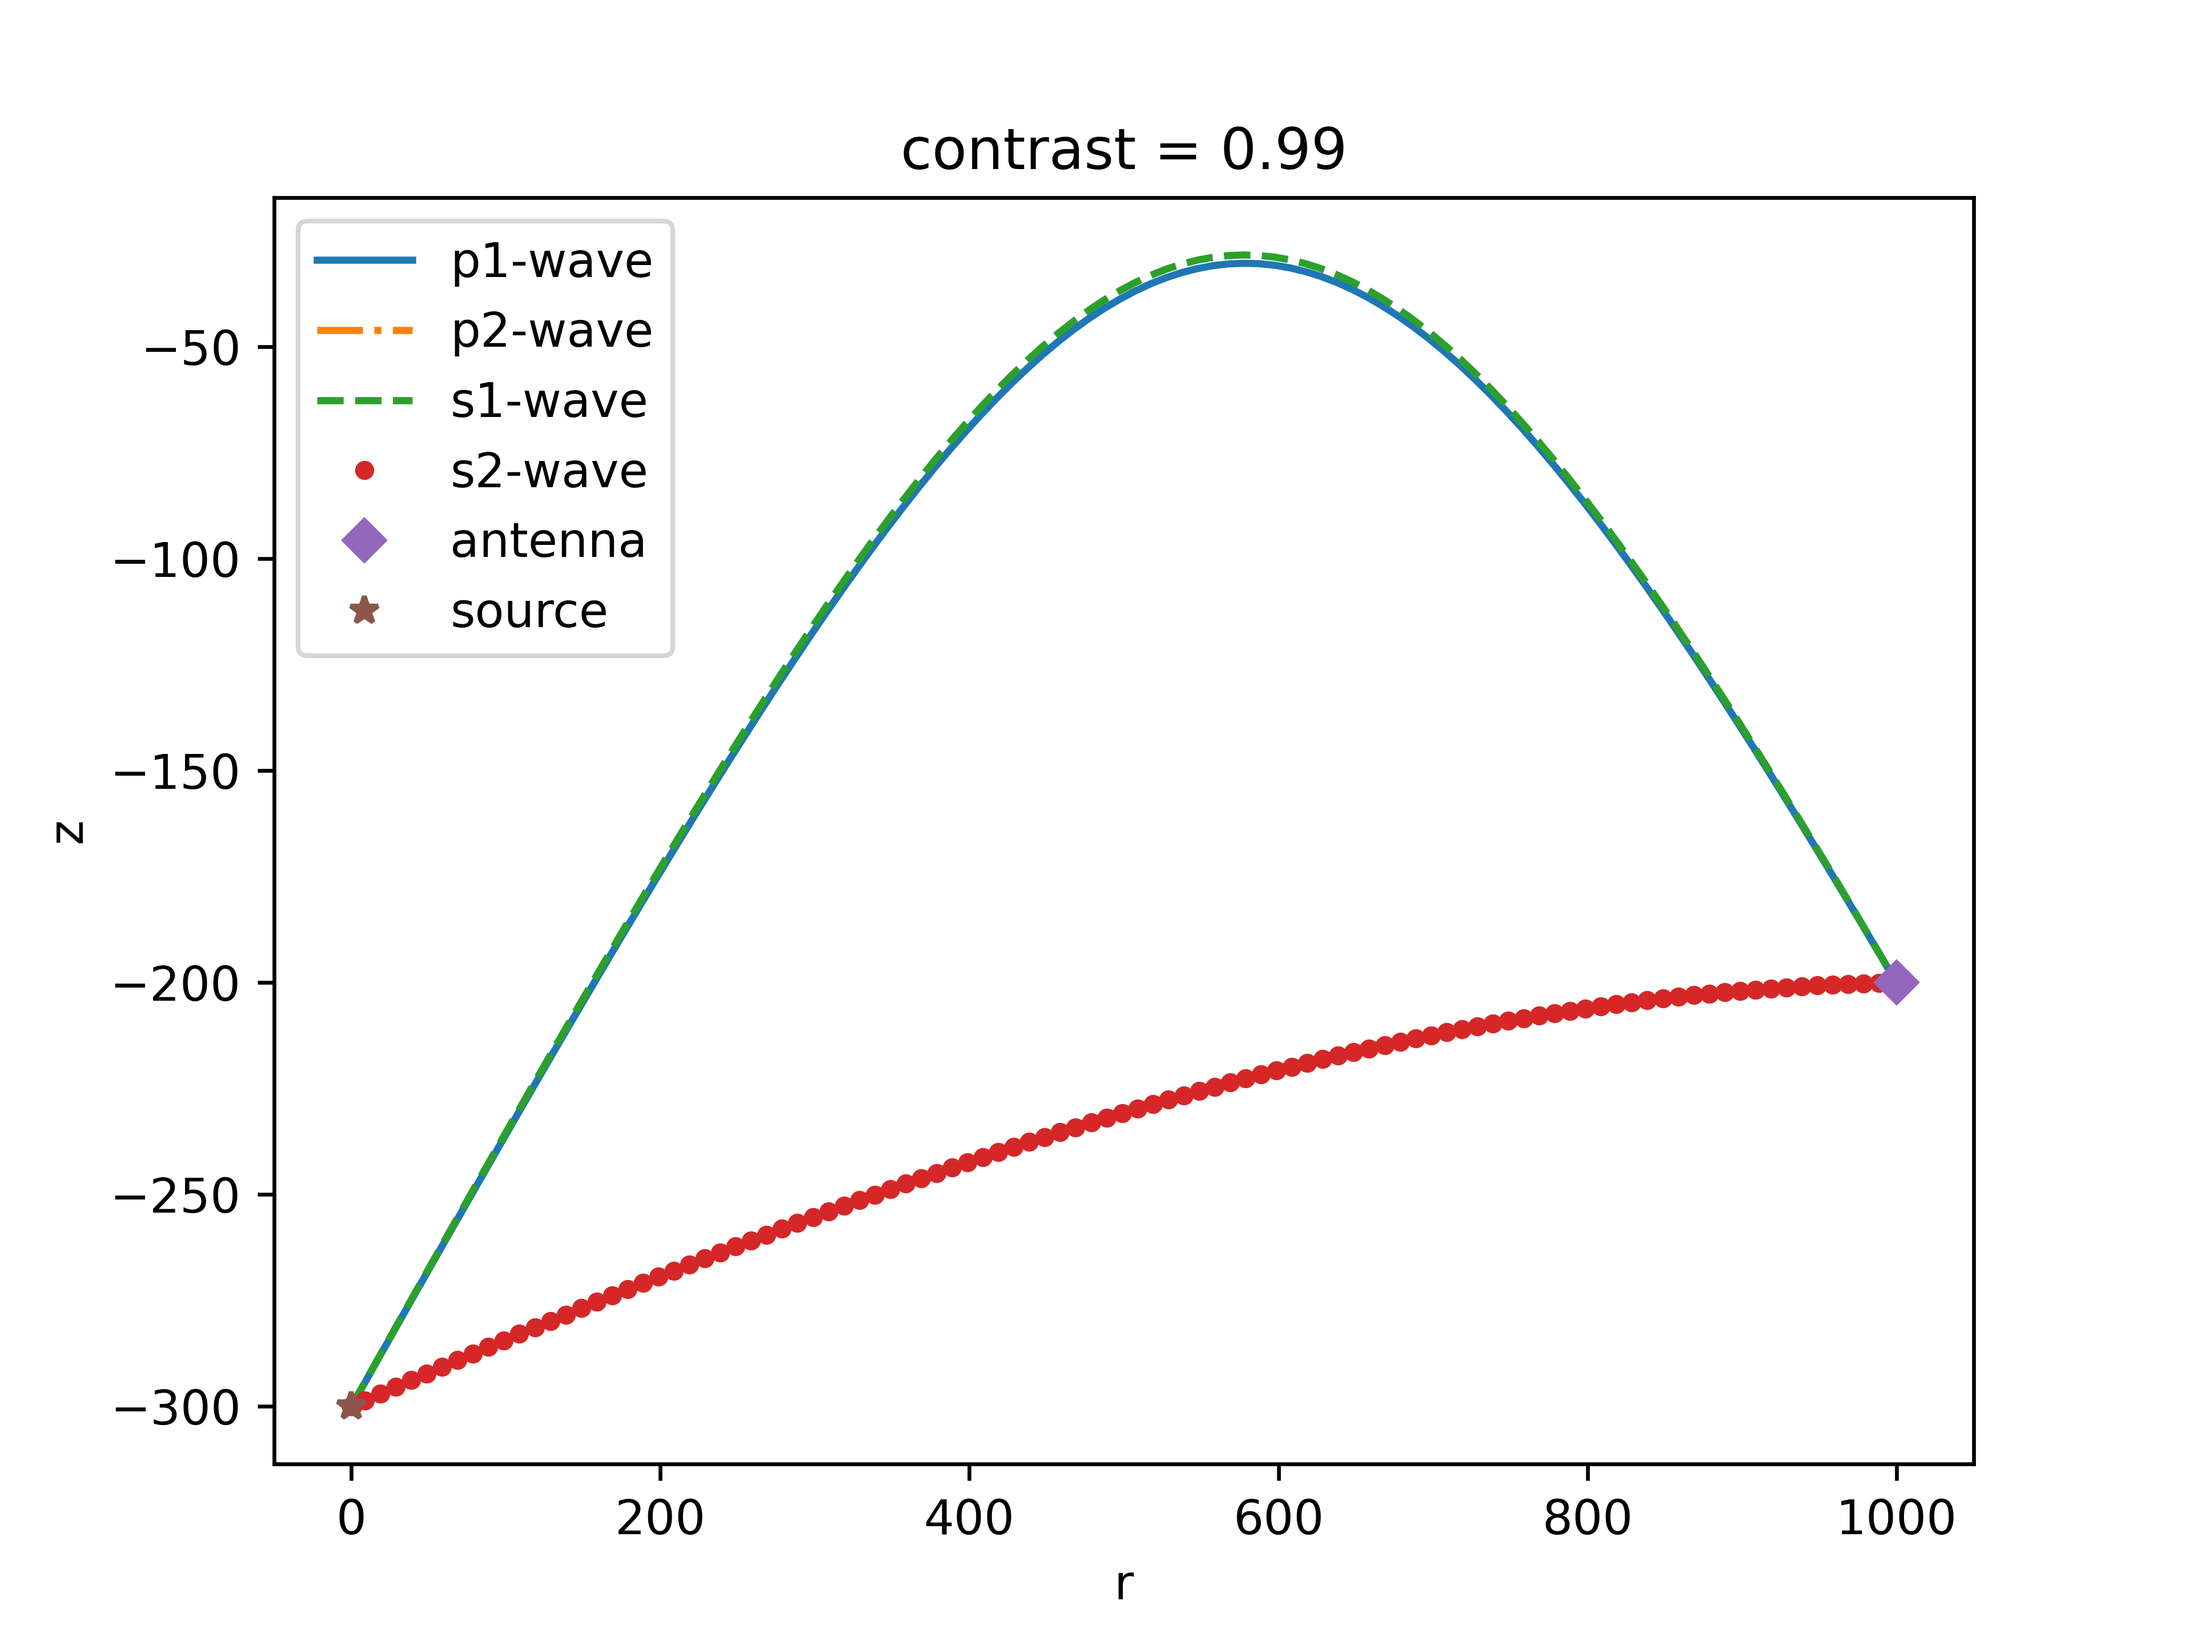
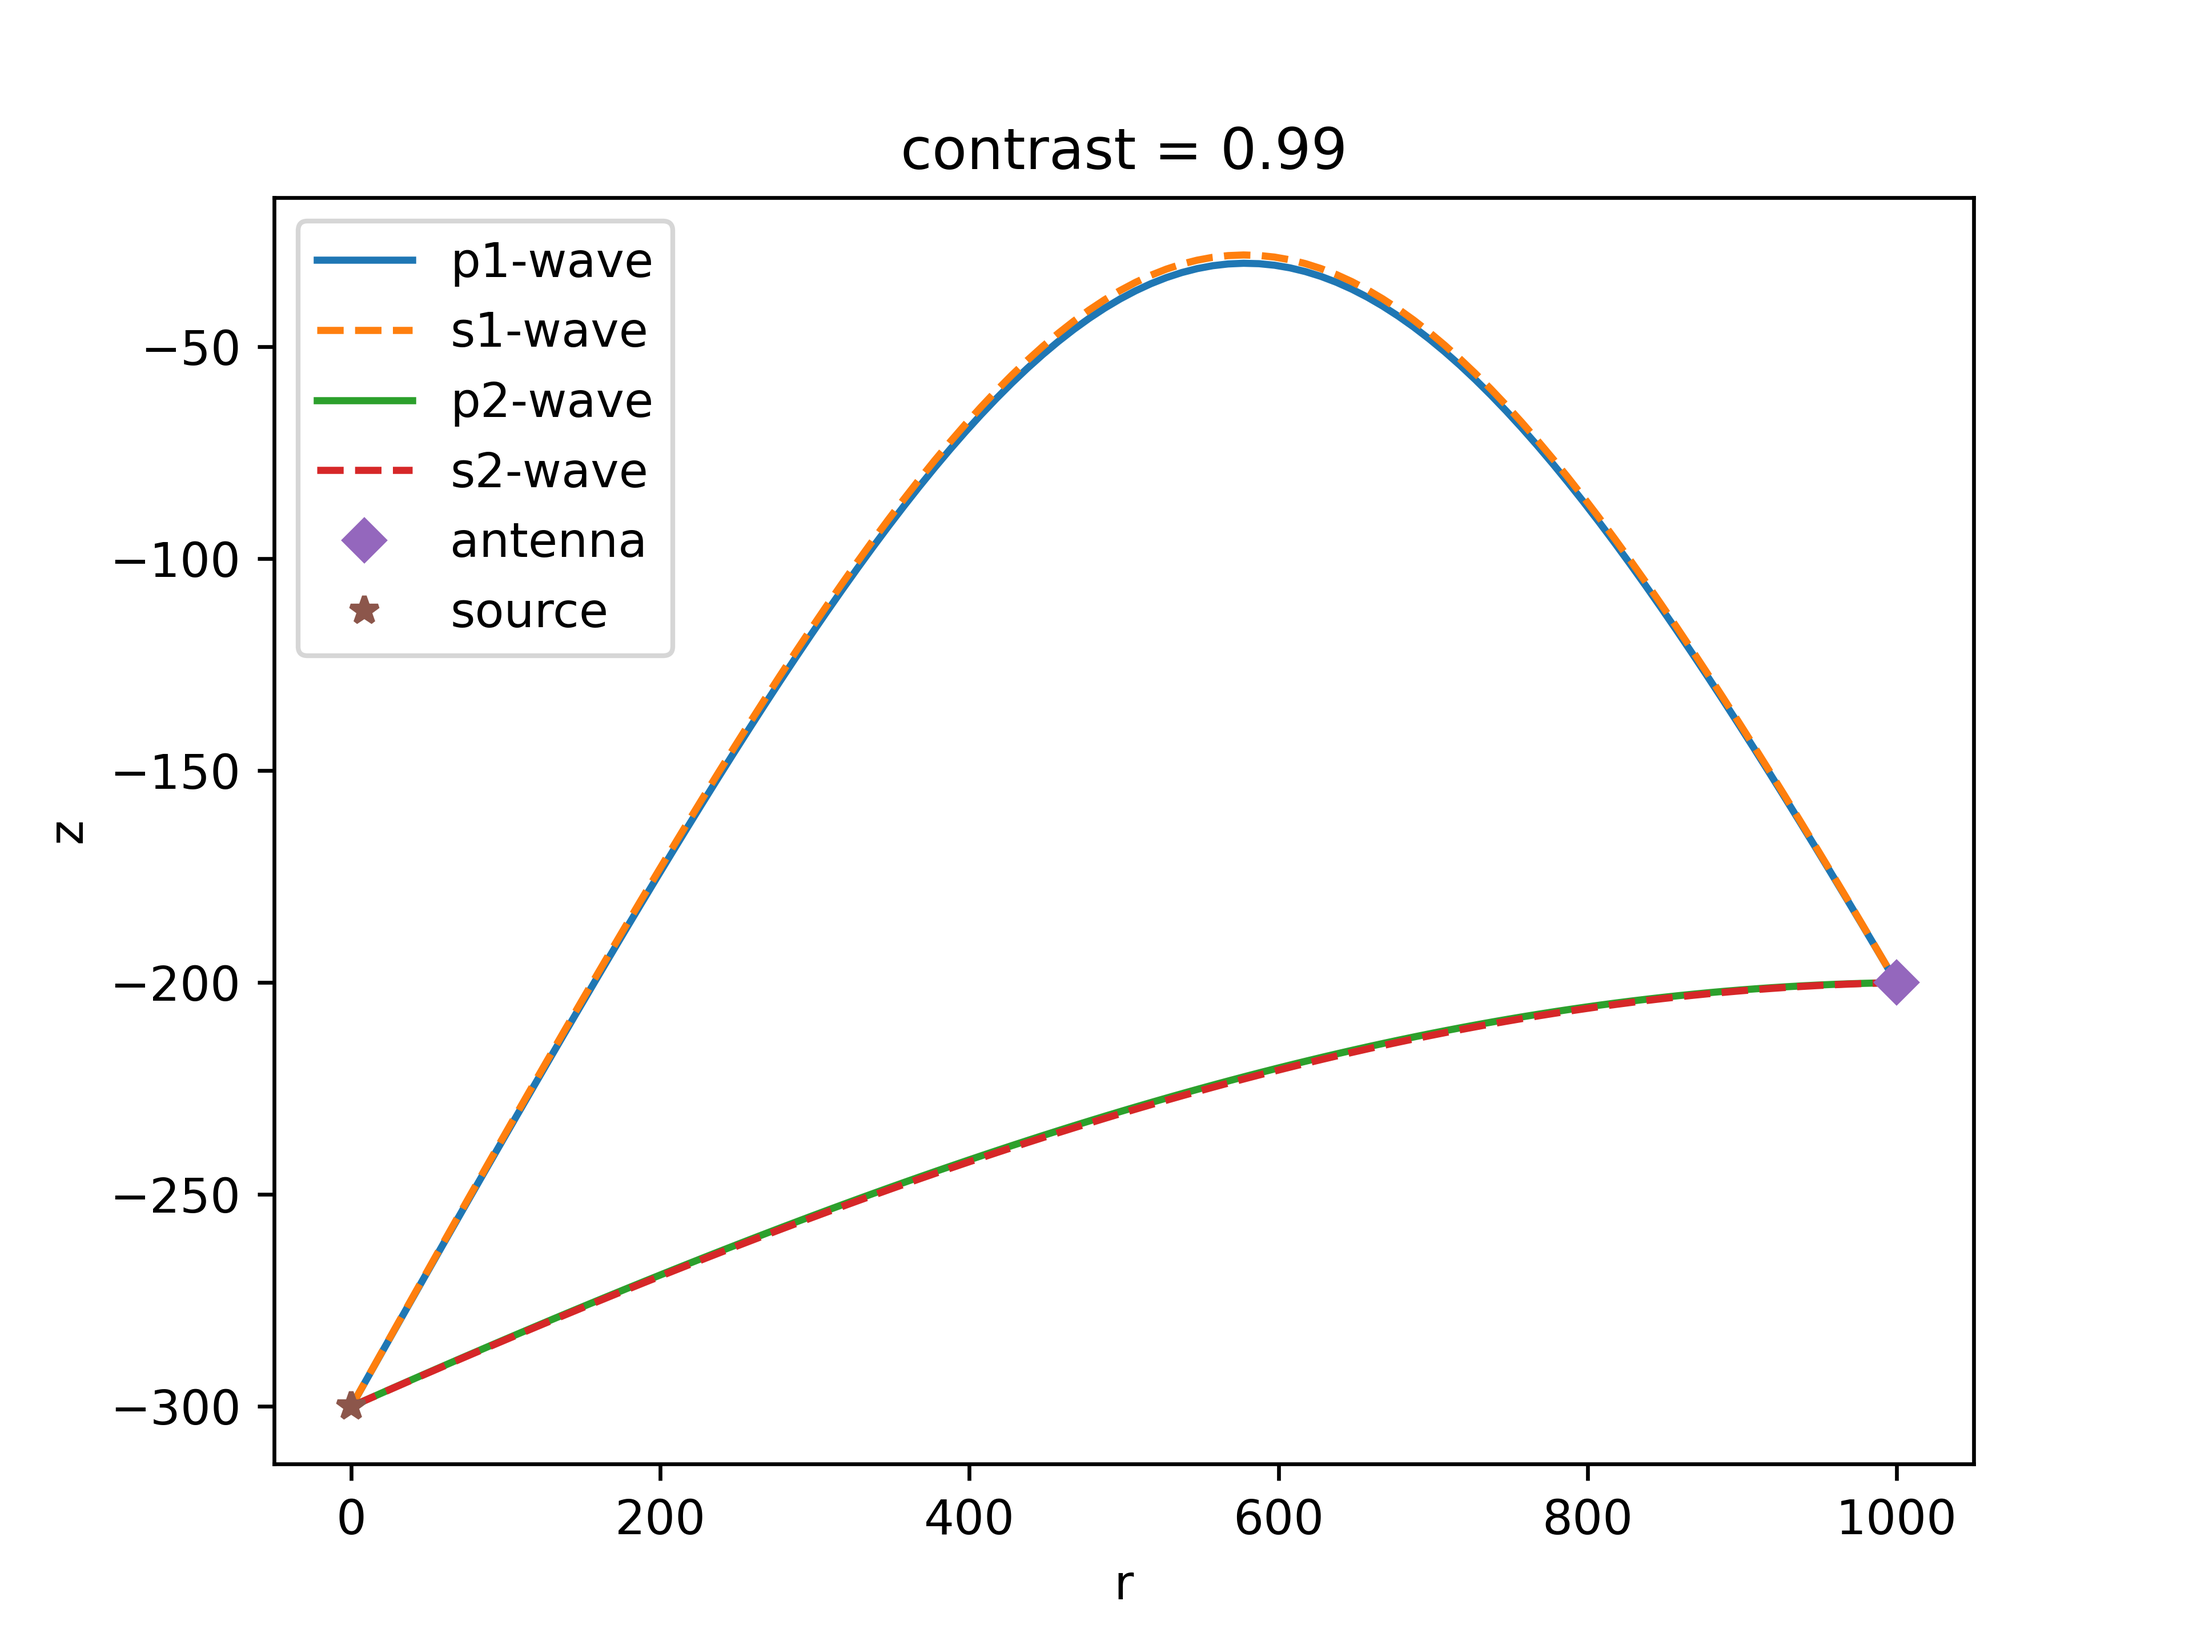
fixing bounding algorithm

diff --git a/polarization/snell_sweep_tests.py b/polarization/snell_sweep_tests.py
@@ -15,13 +15,13 @@ zm = -200
 dr = 10
 dz = 10
 
-angs = np.linspace(np.arcsin(1/sf.ns(z0))-0.1, np.pi/2, num=300)
+angs = np.linspace(np.arcsin(1/sf.ns(z0))-0.1, np.pi/2, num=200)
 depths = np.linspace(-100, -2000, num=5)
 zp = np.zeros(len(angs))
 zs = np.zeros(len(angs))
 ptests, stests = np.zeros(len(angs)), np.zeros(len(angs))
 
-#fig, (ax1, ax2, ax3) = plt.subplots(nrows=1, ncols=3)
+fig, (ax1, ax2) = plt.subplots(nrows=2, ncols=1, sharex=True)
 
 ctr = 0
 
@@ -32,7 +32,7 @@ for i in range(len(angs)):
         ptests[i] = np.abs(np.abs(sf.npp(angs[i], z0)*np.sin(angs[i])) - np.abs(sf.npp(podesol.y[0, -1], podesol.y[1, -1])*np.sin(podesol.y[0, -1])))
         stests[i] = np.abs(np.abs(sf.no(z0)*np.sin(angs[i])) - np.abs(sf.no(sodesol.y[1,-1])*np.sin(sodesol.y[0,-1])))
         #plt.figure(1)
-        plt.plot(podesol.t, podesol.y[1])
+        #plt.plot(podesol.t, podesol.y[1])
         #plt.plot
         '''
         if angs[i] > np.arcsin(sf.nss/sf.no(z0)):
@@ -60,57 +60,61 @@ for i in range(len(angs)):
         '''
 
         zp[i], zs[i] = podesol.y[1, -1], sodesol.y[1,-1]
-
+'''
 print('all plotted?', ctr == len(angs), ctr)
 #plt.show()
 plt.clf()
 
 plt.semilogy(angs, ptests, label='p')
 plt.semilogy(angs, stests, label='s')
-plt.vlines([np.arcsin(1/(sf.ns(z0)))], min(min(ptests), min(stests)), max(max(ptests), max(stests)), colors='k')
+#plt.vlines([np.arcsin(1/(sf.ns(z0)))], min(min(ptests), min(stests)), max(max(ptests), max(stests)), colors='k')
 plt.legend()
 #plt.show()
 plt.clf()
 print(np.max(ptests), np.max(stests))
+'''
 
-plt.plot(angs, zp-zm,'-', label='p-waves')
-plt.plot(angs, zs-zm, '--', label='s-waves')
-plt.hlines(0, angs[0], angs[-1], colors='r', linestyles='-')
-#plt.vlines([np.arcsin(1/(sf.ns(z0))), np.pi/2-np.arctan((-zm-z0)/rmax), np.pi/2-np.arctan((zm-z0)/rmax)], min(min(zp), min(zs)), max(max(zp), max(zs)), colors='k')
-plt.vlines([np.arcsin(1/(sf.ns(z0))), np.arctan(sf.cont/np.sqrt(sf.cont**2*sf.ns(z0)**2 - 1))], min(min(zp), min(zs)), max(max(zp), max(zs)), colors=['g', 'k'])
-print('npp',sf.npp(np.arctan(sf.cont/np.sqrt(sf.ns(z0)**2 - 1)), z0))
+ax1.plot(angs, zp-zm,'-', label='p-waves')
+ax2.plot(angs, zs-zm, '-', label='s-waves')
+ax1.hlines(0, angs[0], angs[-1], colors='r', linestyles='-')
+ax2.hlines(0, angs[0], angs[-1], colors='r', linestyles='-')
+#plt.vlines([np.arcsin(1/(sf.ns(z0))), np.arcsin(sf.nss/sf.ns(z0))], min(min(zp), min(zs)), max(max(zp), max(zs)), colors='k')
+#plt.vlines([np.arctan(sf.cont/np.sqrt(sf.cont**2*sf.no(z0)**2 - 1)), np.arctan(sf.cont*sf.nss/np.sqrt(sf.cont**2*sf.no(z0)**2 - sf.nss**2))], min(min(zp), min(zs)), max(max(zp), max(zs)), colors='g')
+print('npp',sf.npp(np.arctan(sf.cont/np.sqrt(sf.cont**2*sf.ns(z0)**2 - 1)), z0))
 #plt.vlines([np.arctan(sf.cont/np.sqrt(sf.no(z0)**2-1))], min(min(zp), min(zs)), max(max(zp), max(zs)), colors='m')
 
 plt.xlabel('initial ' + r'$\theta$')
 plt.ylabel('antenna depth - final depth')
 plt.title('radial distance = 1 km, initial depth = '+str(z0)+' m, contrast = ' + str(sf.cont))
-plt.show()
 plt.legend()
+#plt.show()
 #plt.savefig(str(z0)+'m_depthsvtheta.png', dpi=600)
+
+#input()
 
 print('done 1st plot')
 print('p1 bounds')
 print('initals:', np.arcsin(1/sf.ns(z0)), np.pi/2-np.arctan((-zm-z0)/rmax), np.pi/2-np.arctan((zm-z0)/rmax))
-p1lb, p1rb = sf.get_bounds(np.arcsin(1/sf.ns(z0)), np.pi/2-np.arctan((-zm-z0)/rmax), sf.podes, rmax, z0, zm, dr) 
+p1lb, p1rb = sf.get_bounds_1guess(np.arctan(sf.cont/np.sqrt(sf.cont**2*sf.ns(z0)**2 - 1))+0.01, sf.podes, rmax, z0, zm, dr) 
 print('p2 bounds')
-p2lb, p2rb = sf.get_bounds(np.pi/2-np.arctan((-zm-z0)/rmax), np.pi/2-np.arctan((zm-z0)/rmax), sf.podes, rmax, z0, zm, dr)
+p2lb, p2rb = sf.get_bounds_1guess(p1rb, sf.podes, rmax, z0, zm, dr)
 if p1lb is not None and p1rb is not None:
-    plt.vlines(p1lb, min(min(zp), min(zs)), max(max(zp), max(zs)), colors='orange')
-    plt.vlines(p1rb, min(min(zp), min(zs)), max(max(zp), max(zs)), colors='g')
+    ax1.vlines(p1lb, min(min(zp), min(zs)), max(max(zp), max(zs)), colors='orange')
+    ax1.vlines(p1rb, min(min(zp), min(zs)), max(max(zp), max(zs)), colors='g')
 if p2lb is not None and p2rb is not None:
-    plt.vlines(p2lb, min(min(zp), min(zs)), max(max(zp), max(zs)), colors='orange')
-    plt.vlines(p2rb, min(min(zp), min(zs)), max(max(zp), max(zs)), colors='g')
+    ax1.vlines(p2lb, min(min(zp), min(zs)), max(max(zp), max(zs)), colors='orange')
+    ax1.vlines(p2rb, min(min(zp), min(zs)), max(max(zp), max(zs)), colors='g')
 
 print('s1 bounds')
-s1lb, s1rb = sf.get_bounds(np.arcsin(1/sf.ns(z0)), np.pi/2-np.arctan((-zm-z0)/rmax), sf.sodes, rmax, z0, zm, dr)
+s1lb, s1rb = sf.get_bounds_1guess(np.arcsin(1/sf.ns(z0))+0.01, sf.sodes, rmax, z0, zm, dr)
 print('s2 bounds')
-s2lb, s2rb = sf.get_bounds(np.pi/2-np.arctan((-zm-z0)/rmax), np.pi/2-np.arctan((zm-z0)/rmax), sf.sodes, rmax, z0, zm, dr)
+s2lb, s2rb = sf.get_bounds_1guess(s1rb, sf.sodes, rmax, z0, zm, dr)
 if s1lb is not None and s1rb is not None: 
-    plt.vlines(s1lb, min(min(zp), min(zs)), max(max(zp), max(zs)), colors='m')
-    plt.vlines(s1rb, min(min(zp), min(zs)), max(max(zp), max(zs)), colors='c')
+    ax2.vlines(s1lb, min(min(zp), min(zs)), max(max(zp), max(zs)), colors='m')
+    ax2.vlines(s1rb, min(min(zp), min(zs)), max(max(zp), max(zs)), colors='c')
 if s2lb is not None and s2rb is not None:
-    plt.vlines(s2lb, min(min(zp), min(zs)), max(max(zp), max(zs)), colors='m')
-    plt.vlines(s2rb, min(min(zp), min(zs)), max(max(zp), max(zs)), colors='c')
+    ax2.vlines(s2lb, min(min(zp), min(zs)), max(max(zp), max(zs)), colors='m')
+    ax2.vlines(s2rb, min(min(zp), min(zs)), max(max(zp), max(zs)), colors='c')
 
 plt.xlabel('initial ' + r'$\theta$')
 plt.ylabel('antenna depth - final depth')

diff --git a/polarization/snell_uniaxial_roottests.py b/polarization/snell_uniaxial_roottests.py
@@ -33,24 +33,41 @@ dz = 10
 print(sf.cont)
 cont = sf.cont
 
-def initialangle(zd, z0):
-    if zd-z0 < 0:
-        return np.pi/4
-    if zd-z0 >= 0:
-        return np.pi/2 - np.arctan((zd-z0)/rmax)
+def pguess(z0):
+    if np.arctan(sf.cont/np.sqrt(sf.cont**2*sf.ns(z0)**2 - 1))+0.01 < np.pi/2-np.arctan((-zm-z0)/rmax):
+        return np.arctan(sf.cont/np.sqrt(sf.cont**2*sf.ns(z0)**2 - 1))+0.01
+    else: 
+        return np.pi/2-np.arctan((-zm-z0)/rmax)
+
+def sguess(z0):
+    if np.arcsin(1/sf.ns(z0))+0.01 < np.pi/2-np.arctan((-zm-z0)/rmax):
+        return np.arcsin(1/sf.ns(z0))+0.01
+    else: 
+        return np.pi/2-np.arctan((-zm-z0)/rmax)
 
 #example for plotting
+    
+podesol1, rb = sf.get_ray_1guess(sf.objfn, sf.podes, rmax, z0, zm, dr, pguess(z0))#, np.pi/2-np.arctan((-zm-z0)/rmax))
+if rb is not None:
+    podesol2, rb = sf.get_ray_1guess(sf.objfn, sf.podes, rmax, z0, zm, dr, rb)#np.pi/2-np.arctan((-zm-z0)/rmax), np.pi/2-np.arctan((zm-z0)/rmax))
+else:
+    podesol2, rb = None, None
 
-podesol1 = sf.get_ray(sf.objfn, sf.podes, rmax, z0, zm, dr, np.arctan(sf.cont/np.sqrt(sf.cont**2*sf.ns(z0)**2 - 1)), np.pi/2-np.arctan((-zm-z0)/rmax))
-podesol2 = sf.get_ray(sf.objfn, sf.podes, rmax, z0, zm, dr, np.pi/2-np.arctan((-zm-z0)/rmax), np.pi/2-np.arctan((zm-z0)/rmax))
+sodesol1, rb = sf.get_ray_1guess(sf.objfn, sf.sodes, rmax, z0, zm, dr, sguess(z0))#, np.pi/2-np.arctan((-zm-z0)/rmax))
+if rb is not None:
+    sodesol2, rb = sf.get_ray_1guess(sf.objfn, sf.sodes, rmax, z0, zm, dr, rb)#np.pi/2-np.arctan((-zm-z0)/rmax))#, np.pi/2-np.arctan((zm-z0)/rmax))
+else:
+    sodesol2, rb = None, None
 
-sodesol1 = sf.get_ray(sf.objfn, sf.sodes, rmax, z0, zm, dr, np.arcsin(1/sf.ns(z0)), np.pi/2-np.arctan((-zm-z0)/rmax))
-sodesol2 = sf.get_ray(sf.objfn, sf.sodes, rmax, z0, zm, dr, np.pi/2-np.arctan((-zm-z0)/rmax), np.pi/2-np.arctan((zm-z0)/rmax))
+if podesol1 is not None:
+    plt.plot(podesol1.t, podesol1.y[1], label = 'p1-wave')
+if sodesol1 is not None:
+    plt.plot(sodesol1.t, sodesol1.y[1], '--', label = 's1-wave')
+if podesol2 is not None:
+    plt.plot(podesol2.t, podesol2.y[1], label = 'p2-wave')
+if sodesol2 is not None:
+    plt.plot(sodesol2.t, sodesol2.y[1], '--', label = 's2-wave')
 
-plt.plot(podesol1.t, podesol1.y[1], label = 'p1-wave')
-plt.plot(podesol2.t, podesol2.y[1], label = 'p2-wave')
-plt.plot(sodesol1.t, sodesol1.y[1], '--', label = 's1-wave')
-plt.plot(sodesol2.t, sodesol2.y[1], '--', label = 's2-wave')
 plt.plot(rmax, zm, 'D', label = 'antenna')
 plt.plot(0, z0, '*', label = 'source')
 plt.title('contrast = '+str(cont))
@@ -61,7 +78,7 @@ plt.savefig('snells_uniaxial_example'+str(cont).replace('.','')+'.png', dpi=600)
 #plt.show()
 plt.clf()
 
-input()
+#input()
 
 #sweeping data
 datanum = 11
@@ -77,8 +94,13 @@ for j in range(len(zarr)):
     print('\ndepth: ', z0)
     
     print('inital guesses: ', np.arcsin(1/sf.nstmp(z0)), np.pi/2-np.arctan((-zm-z0)/rmax), np.pi/2-np.arctan((zm-z0)/rmax))
-    podesol1 = sf.get_ray(sf.objfn, sf.podes, rmax, z0, zm, dr, np.arcsin(1/sf.nstmp(z0)), np.pi/2-np.arctan((-zm-z0)/rmax))
-    podesol2 = sf.get_ray(sf.objfn, sf.podes, rmax, z0, zm, dr, np.pi/2-np.arctan((-zm-z0)/rmax), np.pi/2-np.arctan((zm-z0)/rmax))
+    rb = 0
+    podesol1, rb = sf.get_ray_1guess(sf.objfn, sf.podes, rmax, z0, zm, dr, pguess(z0))#, np.pi/2-np.arctan((-zm-z0)/rmax))
+    if rb is not None:
+        podesol2, rb = sf.get_ray_1guess(sf.objfn, sf.podes, rmax, z0, zm, dr, rb)#np.pi/2-np.arctan((-zm-z0)/rmax))#, np.pi/2-np.arctan((zm-z0)/rmax))
+    else:
+        podesol2, rb = None, None
+
     if(podesol1 is not None):
         tp1 = 1e9*podesol1.y[2,-1]/speed_of_light
         ax1.plot(podesol1.t, podesol1.y[1], 'b-', label=str(z0))
@@ -88,8 +110,11 @@ for j in range(len(zarr)):
         ax1.plot(podesol2.t, podesol2.y[1], '--', color='orange', label=str(z0))
         tmptab[j, 8] , tmptab[j, 9], tmptab[j,10] = podesol2.y[0,0], tp2, np.abs(np.abs(sf.npp(podesol1.y[0,0], z0)*np.sin(podesol1.y[0,0])) - np.abs(sf.npp(podesol1.y[0, -1], podesol1.y[1, -1])*np.sin(podesol1.y[0, -1])))
     
-    sodesol1 = sf.get_ray(sf.objfn, sf.sodes, rmax, z0, zm, dr, np.arcsin(1/sf.nstmp(z0)), np.pi/2-np.arctan((-zm-z0)/rmax))
-    sodesol2 = sf.get_ray(sf.objfn, sf.sodes, rmax, z0, zm, dr, np.pi/2-np.arctan((-zm-z0)/rmax), np.pi/2-np.arctan((zm-z0)/rmax))
+    sodesol1, rb = sf.get_ray_1guess(sf.objfn, sf.sodes, rmax, z0, zm, dr, sguess(z0))#, np.pi/2-np.arctan((-zm-z0)/rmax))
+    if rb is not None:
+        sodesol2, rb = sf.get_ray_1guess(sf.objfn, sf.sodes, rmax, z0, zm, dr, rb)#np.pi/2-np.arctan((-zm-z0)/rmax))#, np.pi/2-np.arctan((zm-z0)/rmax))
+    else:
+        sodesol2, rb = None, None
 
     if(sodesol1 is not None):
         ts1 = 1e9*sodesol1.y[2,-1]/speed_of_light

diff --git a/polarization/snell_fns.py b/polarization/snell_fns.py
@@ -15,8 +15,8 @@ c = 0.0132
 
 #sim model parameters
 d = 1
-cont = 0.9
-n2 = 1
+cont = 0.999
+n2 = 1e-2
 
 def nz(z):
     # z index of refraction function
@@ -177,6 +177,17 @@ def get_ray(minfn, odefn, rmax, z0, zm, dr, a, b):
     odesol = solve_ivp(odefn, [0, rmax], [minsol.root, z0, 0], method='DOP853', max_step=dr)
     return odesol
 
+def get_ray_1guess(minfn, odefn, rmax, z0, zm, dr, boundguess):
+    lb, rb = get_bounds_1guess(boundguess, odefn, rmax, z0, zm, dr)
+    if(lb == None and rb == None):
+        return None, None
+    else:
+        minsol = root_scalar(minfn, args=(odefn, rmax, z0, zm, dr), bracket=[lb,rb])#, options={'xtol':1e-12, 'rtol':1e-12, 'maxiter':int(1e4)})
+
+    print(minsol.converged, minsol.flag)
+    odesol = solve_ivp(odefn, [0, rmax], [minsol.root, z0, 0], method='DOP853', max_step=dr)
+    return odesol, rb
+
 def get_bounds(leftguess, rightguess, odefn, rmax, z0, zm, dr, xtol = None, maxiter=None):
 
     if(rightguess <= leftguess):
@@ -242,3 +253,37 @@ def get_bounds(leftguess, rightguess, odefn, rmax, z0, zm, dr, xtol = None, maxi
 
     print('returned bounds:', lb, rb)
     return lb, rb
+
+def get_bounds_1guess(initguess, odefn, rmax, z0, zm, dr, xtol = None, maxiter=None):
+
+    if xtol != None:
+        xtol = xtol
+    else:
+        xtol=1e-4
+
+    if maxiter != None:
+        maxiter = maxiter
+    else:
+        maxiter=200
+
+    dxi=1e-2
+    dx = dxi
+    zendintl = objfn(initguess, odefn, rmax, z0, zm, dr)
+    zendnew = zendintl
+    inum = 0
+    lastguess = initguess
+    newguess = lastguess
+    while np.sign(zendintl) == np.sign(zendnew) and newguess <= np.pi:
+        lastguess = newguess
+        newguess += dx
+        zendnew = objfn(newguess, odefn, rmax, z0, zm, dr)
+    
+    if newguess > np.pi:
+        print('ERROR: no interval found')
+        return None, None
+    else:
+        lb, rb = lastguess, newguess
+    
+    print('returned bounds:', lb, rb)
+    return lb, rb
+
